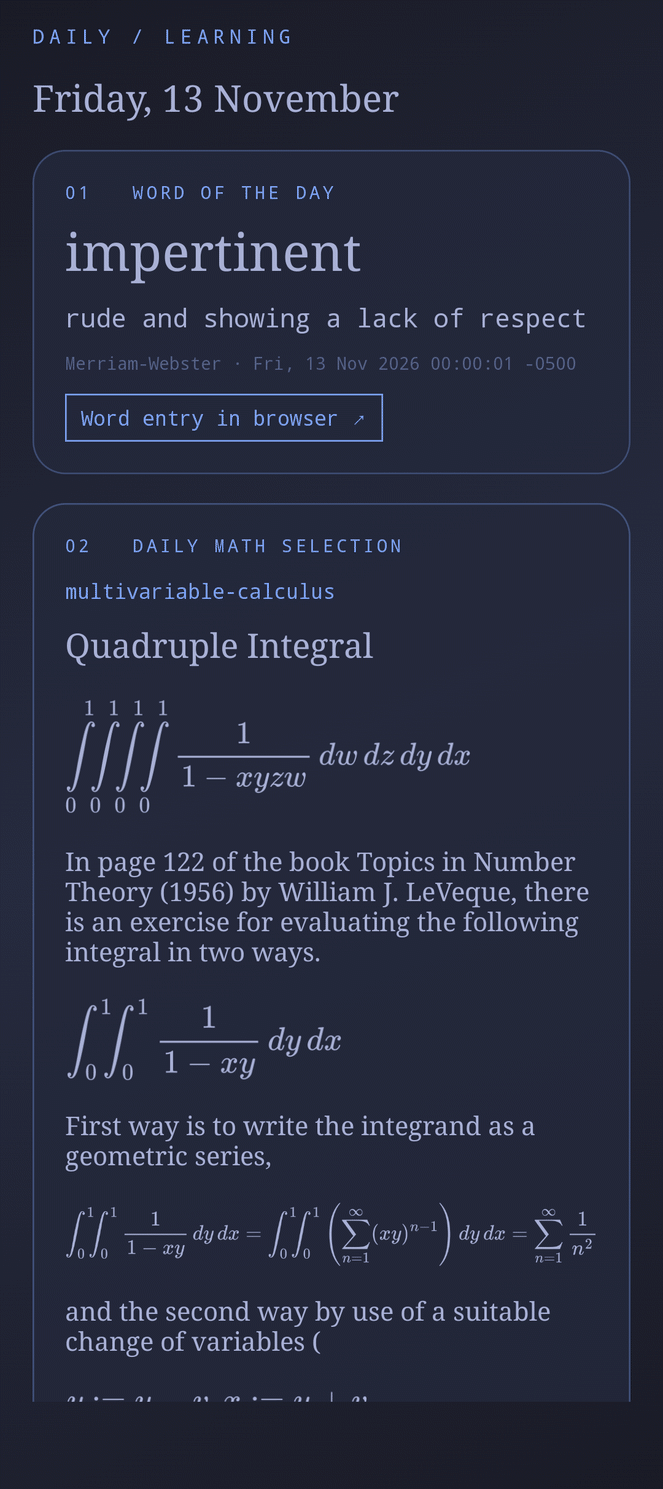
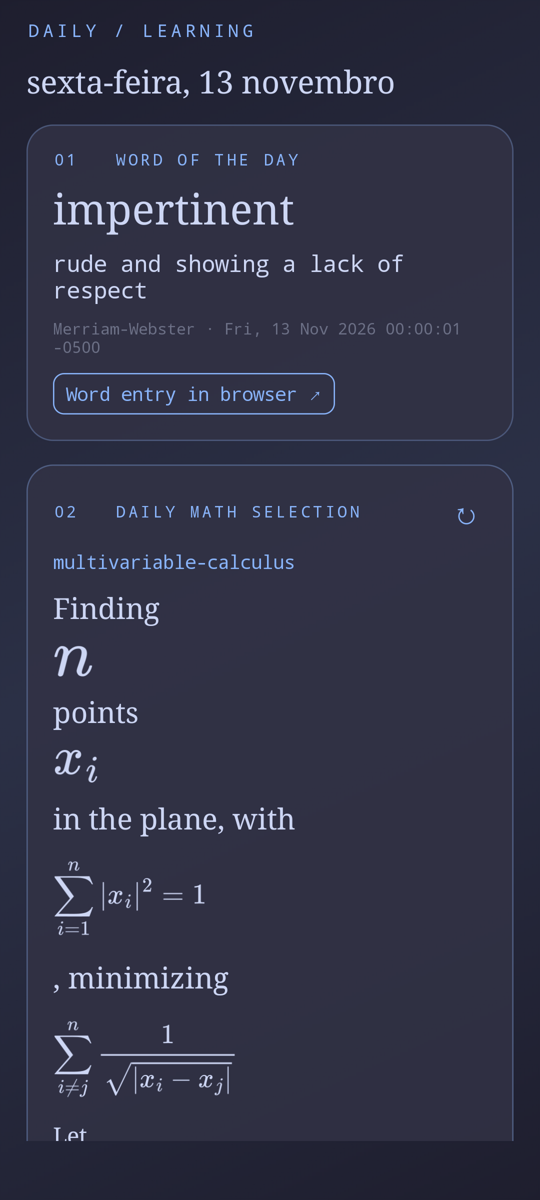
Update virrann/daily-learning to 4.1.1: rechecks the word of the day after eight hours, at most three requests a day, and a ↻ on the math card picks a different problem (#466)

diff --git a/faces/virrann/daily-learning/README.md b/faces/virrann/daily-learning/README.md
@@ -4,7 +4,7 @@ A full-page OWL face with Merriam-Webster's word of the day and a daily selectio
 
 Requires Arch Linux with `nodejs` and `npm`, both declared in `requires` and installed through pacman. All helper code and a pinned npm lockfile are embedded in `face.owl`; no separately copied scripts, account or API key are needed. On first use, the inline command runs `npm ci --ignore-scripts` to install `mathjax-full` 3.2.1 and `sharp` 0.35.5, with their integrity-checked dependencies from registry.npmjs.org, into a versioned directory under `~/.cache/daily-learning`. This initial setup needs an internet connection and can take a few minutes. npm lifecycle scripts, audit and funding requests are disabled. Later refreshes reuse that installation.
 
-The face fetches Merriam-Webster and Mathematics Stack Exchange and caches their responses and generated formula images in `~/.cache/daily-learning` for offline reading after initial setup. A failed refresh keeps previously cached content and shows an error. The refresh button retries failed requests; successfully cached selections remain fixed for the day.
+The face fetches Merriam-Webster and Mathematics Stack Exchange and caches their responses and generated formula images in `~/.cache/daily-learning` for offline reading after initial setup. A failed refresh keeps previously cached content and shows an error. The word is checked automatically at eight-hour intervals, with a persistent limit of three website requests per calendar day, including manual refreshes and failed attempts. This allows a word fetched before the publisher updates its feed to refresh later that day. The refresh button can request an earlier check within that daily limit. The small ↻ control at the top right of the math card selects a different problem; the selection is saved locally and resets when the date changes while the face is running. Changing problems does not bypass the word request limit.
 
 Equations use MathJax's TeX-to-SVG layout and are rasterized locally with sharp as transparent PNG masks, placed between the original text passages. TeX spacing and grouping are preserved, with no MathText substitutions, manual line splitting or zoom interface. OWL applies the active theme foreground at display time, so cached images follow subsequent theme changes. Wide expressions scale to the card width. A rendering or setup error leaves the source text and source link available. Math selections rotate among geometry, calculus, linear algebra, differential equations, integration and optimization.
 
